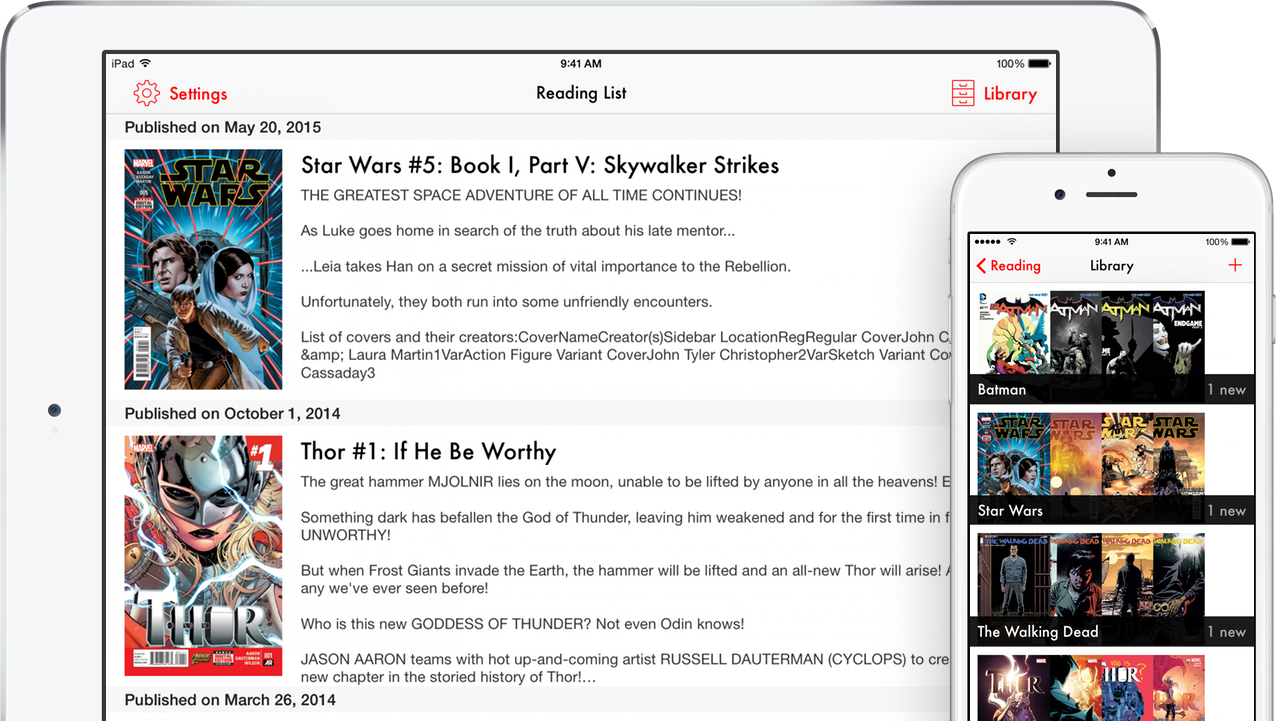
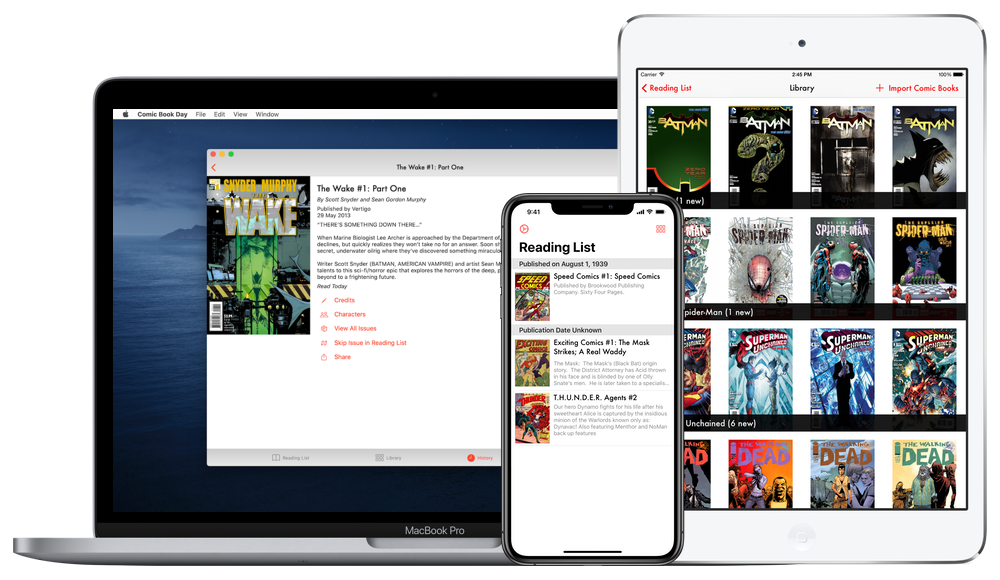
Update with Mac version

diff --git a/index.html b/index.html
@@ -32,34 +32,34 @@
 </header>
 <section class='main'>
 <div class='tagline'>
-Never miss a release of your favorite comic book.
+Never miss the latest issue of your favorite comic book.
 </div>
 <div class='feature'>
-<h3>Notifications</h3>
+<h3>Keep Track</h3>
+<img alt='Star' src='img/icon-star.png'>
+<p>
+Organize the books you’ve already read, and know what to read next.
+</p>
+</div>
+<div class='feature'>
+<h3>Get Notified</h3>
 <img alt='Star' src='img/icon-star.png'>
 <p>
 Receive a notification every time a new issue comes out.
 </p>
 </div>
 <div class='feature'>
-<h3>Keeping Track</h3>
+<h3>Discover</h3>
 <img alt='Star' src='img/icon-star.png'>
 <p>
-Organize the comic books you’ve already read, and know what to read next.
+Import books directly from a database of more than 380,000 comic books, manga, and other international publications.
 </p>
 </div>
 <div class='feature'>
-<h3>Library</h3>
+<h3>Anytime, Anywhere</h3>
 <img alt='Star' src='img/icon-star.png'>
 <p>
-Import volumes directly from a database of more than 380,000 comic books, manga, and other international publications.
-</p>
-</div>
-<div class='feature'>
-<h3>For Comic Book Lovers</h3>
-<img alt='Star' src='img/icon-star.png'>
-<p>
-Share your favorite issues with your friends, and discover new books to love.
+The app is available on iPhone, iPad, and Mac. Your library is always synchronized.
 </p>
 </div>
 <p class='download'>
@@ -81,7 +81,7 @@ Share your favorite issues with your friends, and discover new books to love.
 <img alt='StdAMG' src='img/amgmini-black.png'>
 </a>
 <p>
-“Comic Book Day” for iPhone, iPad, and iPod touch
+“Comic Book Day” for iPhone, iPad, and Mac
 <br>
 <a href='releasenotes'>Release Notes</a>
 /

diff --git a/README.md b/README.md
@@ -1,5 +1,5 @@
 # Comic Book Day Website
 
-As seen on http://www.studioamanga.com/comicbookday/
+As seen on <https://www.studioamanga.com/comicbookday/>
 
-![screenshot](http://www.studioamanga.com/comicbookday/img/screen-2-ip5.png)
+![screenshot](https://www.studioamanga.com/comicbookday/img/screens.png)
